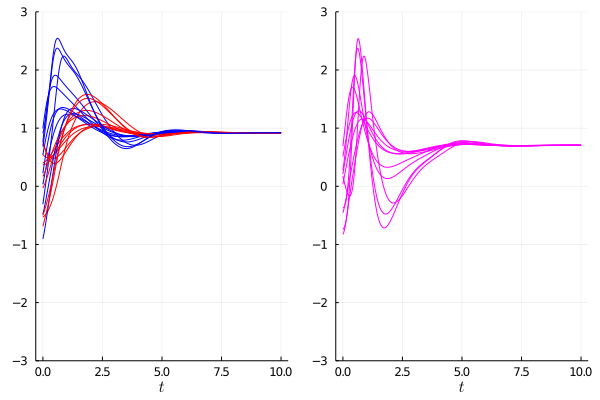
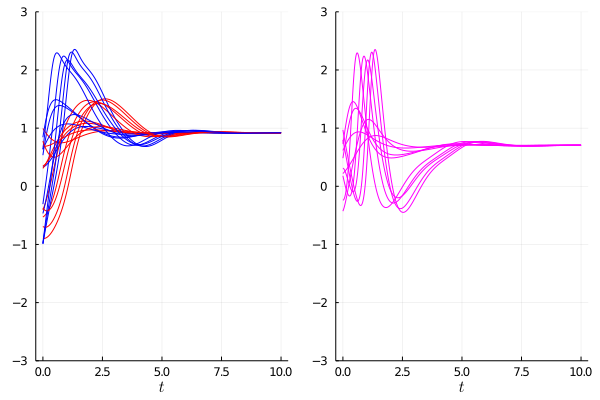
Change lazy to single

Changed region(s): [[0.06, 0.09, 0.45, 0.6], [0.57, 0.09, 0.84, 0.57], [0.84, 0.36, 0.93, 0.39]]

diff --git a/README.md b/README.md
@@ -12,8 +12,6 @@ It has taken low priority for now to improve the simulation speed when the time 
 LazyFym is highly based on Julia's pipeline syntax and [Transducers.jl](https://github.com/JuliaFolds/Transducers.jl).
 This makes it possible to construct a simulator using Transducers.
 Since Transducers are composable, it is highly flexible to make your own simulator.
-For example,
-You can take either eager or lazy data postprocessing with LazyFym.
 Also,
 LazyFym supports **nested environments** so that users can deal with
 complex dynamical systems.
@@ -21,7 +19,7 @@ complex dynamical systems.
 It is possible to lazily evaluate your simulator.
 To do so,
 you would need to incorporate packages related to lazy evaluation
-such as [InfiniteArrays.jl](https://github.com/JuliaArrays/InfiniteArrays.jl).
+such as [Lazy.jl](https://github.com/MikeInnes/Lazy.jl) and [InfiniteArrays.jl](https://github.com/JuliaArrays/InfiniteArrays.jl).
 ### Parallelism
 It is not seemingly different from the sequential simulation.
 For example,
@@ -48,7 +46,7 @@ LazyFym is highly based on `Transducers.jl` so various functionalities provided 
 Therefore, it is **highly recommended** to get used to `Transducers.jl` for the users of LazyFym (e.g., [glossary of Transducers.jl](https://juliafolds.github.io/Transducers.jl/dev/explanation/glossary/)).
 In addition,
 the following list of packages would be useful:
-- [InfiniteArrays.jl](https://github.com/JuliaArrays/InfiniteArrays.jl) for dealing with infinite array and lazy evaluation
+- [Lazy.jl](https://github.com/MikeInnes/Lazy.jl) and [InfiniteArrays.jl](https://github.com/JuliaArrays/InfiniteArrays.jl) for dealing with infinite array and lazy evaluation
 - [StructArrays.jl](https://github.com/JuliaArrays/StructArrays.jl), [DataFrames.jl](https://github.com/JuliaData/DataFrames.jl), and [JLD2.jl](https://github.com/JuliaIO/JLD2.jl) for handling simulation data
 
 ### Quick start
@@ -60,6 +58,7 @@ Please take a look at directory `test` (some examples may be omitted).
 using LazyFym
 using Transducers
 
+# using Lazy
 using InfiniteArrays
 using StructArrays
 using Random
@@ -86,7 +85,7 @@ function postprocess(env::LazyFym.InputAffineQuadraticCostEnv)
     end
 end
 
-function lazy()
+function single()
     Random.seed!(1)
     env = LazyFym.InputAffineQuadraticCostEnv()
     t0 = 0.0
@@ -97,17 +96,18 @@ function lazy()
     sim(x0) = t -> Sim(env, x0, ts, ẋ) |> TakeWhile(datum -> datum.t <= t) |> Map(postprocess(env)) |> collect |> StructArray
     traj_x0 = sim(x0)
     data = traj_x0(t1)
+    # data = @lazy traj_x0(t1);  # for lazy evaluation
     l = @layout [a b]
     p_x = plot(data.t, data.x |> sequentialise,
-        seriestype=:scatter, color=[:red :blue], xlabel=L"t", label=[L"x_{1}" L"x_{2}"], ylim=(-3, 3))
+        color=[:red :blue], xlabel=L"t", label=[L"x_{1}" L"x_{2}"], ylim=(-3, 3))
     p_u = plot(data.t, data.u,
-        seriestype=:scatter, color=[:magenta], xlabel=L"t", label=L"u", ylim=(-3, 3))
+        color=[:magenta], xlabel=L"t", label=L"u", ylim=(-3, 3))
     p = plot(p_x, p_u, layout = l)
-    savefig(p, "figures/lazy.png")
+    savefig(p, "figures/single.png")
 end
-lazy()
+single()
 ```
-![lazy](./figures/lazy.png)
+![single](./figures/single.png)
 ```julia
 function parallel()
     Random.seed!(1)
@@ -119,13 +119,15 @@ function parallel()
     num = 10
     x0s = 1:num |> Map(i -> initial_condition(env))
     traj(x0) = Sim(env, x0, ts, ẋ) |> TakeWhile(datum -> datum.t <= t1) |> Map(postprocess(env)) |> collect
-    data_parallel = x0s |> Map(x0 -> traj(x0)) |> tcollect
-    data_parallel_whole = data_parallel |> TCat(Threads.nthreads()) |> collect |> StructArray 
+    data_parallel = x0s |> Map(x0 -> traj(x0)) |> Map(StructArray) |> tcollect
+    # data_parallel_whole = data_parallel |> TCat(Threads.nthreads()) |> collect |> StructArray   # merge data
     l = @layout [a b]
-    p_x = plot(data_parallel_whole.t, data_parallel_whole.x |> sequentialise,
-        color=[:red :blue], seriestype=:scatter, xlabel=L"t", label=[L"x_{1}" L"x_{2}"], ylim=(-3, 3))
-    p_u = plot(data_parallel_whole.t, data_parallel_whole.u,
-        color=[:magenta], seriestype=:scatter, xlabel=L"t", label=L"u", ylim=(-3, 3))
+    p_x = plot()
+    _ = data_parallel |> Map(data -> plot!(p_x, data.t, data.x |> sequentialise,
+                                           xlabel=L"t", label=[nothing nothing], color=[:red :blue], ylim=(-3, 3))) |> collect
+    p_u = plot()
+    _ = data_parallel |> Map(data -> plot!(p_u, data.t, data.u,
+                                           xlabel=L"t", label=[nothing nothing], color=[:magenta], ylim=(-3, 3))) |> collect
     p = plot(p_x, p_u, layout = l)
     savefig(p, "figures/parallel.png")
 end
